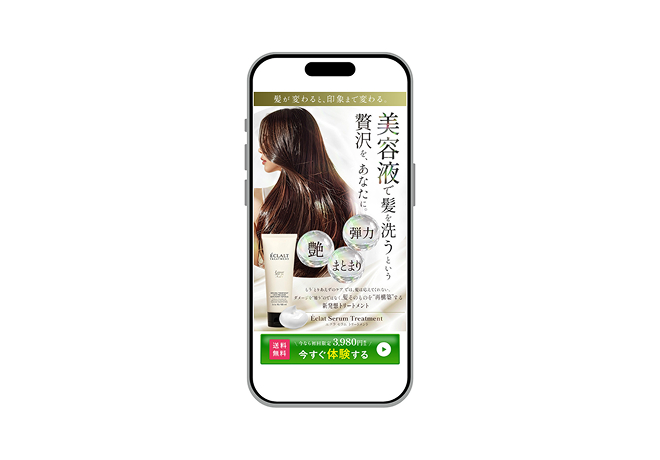
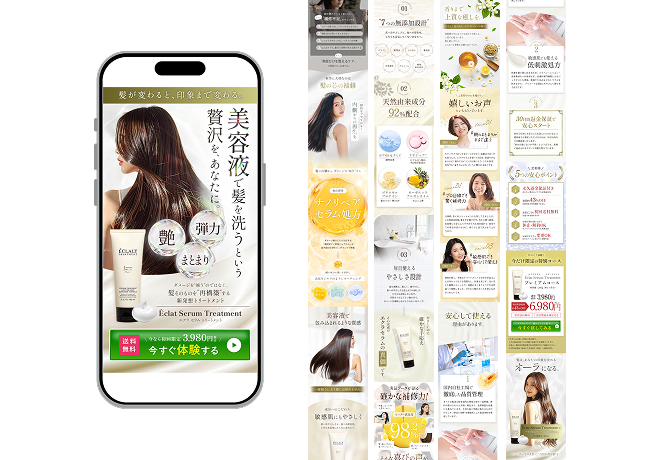
最新2026.01.18

diff --git a/works/works2-20.html b/works/works2-20.html
@@ -74,12 +74,16 @@
         <li data-filter="graphic"><a href="works1-1.html?cat=graphic" class="padding_box"><span>GRAPHIC</span></a></li>
     </ul>
     
-    <div class="lp_mockup_box">
-        <div class="lp_mockup_img"><img src="../Links/zisseki/hair-page.png" alt="ヘアトリートメントLPの画像"></div>
+    <div class="banner_mockup_box">
+        <div class="banner_mockup_img"><img src="../Links/zisseki/hair-page.png" alt="ヘアトリートメントのLPのモックアップ画像"></div>
+        <div class="banner_square_img"><img src="../Links/zisseki/hair-lp-syousai-kasou.png" alt="ヘアトリートメントの下層画像"></div>
     </div>
 
     <div class="lp_mockup_box_sp">
         <div class="lp_mockup_box_sp_img"><img src="../Links/zisseki/hair-page.png" alt="ヘアトリートメントLPの画像"></div>
+    </div>
+    <div class="banner_mockup_box_sp_2">
+        <div class="banner_mockup_box_sp_img"><img src="../Links/zisseki/hair-lp-syousai-kasou.png" alt="ヘアトリートメントの下層画像"></div>
     </div>
 
 

diff --git a/css/style.css b/css/style.css
@@ -924,11 +924,17 @@ a.contact_button:hover {
 .banner_mockup_box_sp{
     display: none;
 }
+.banner_mockup_box_sp_img2{
+    display: none;
+}
 .banner_mockup_img{
     width: 30%;
 }
 .banner_square_img{
     width: 60%;
+}
+.banner_mockup_box_sp_img{
+    display: none;
 }
 
 /* ワークスの詳細ページ グラフィック */
@@ -1420,6 +1426,16 @@ input[name=question] {
     width: 100%;
     display: block;
     justify-content: center;
+}
+.banner_mockup_box_sp_2{
+    width: 100%;
+    display: block;
+    justify-content: center;
+    margin-top: 40px;
+}
+.banner_mockup_box_sp_img{
+    display: block;
+}
 }
 
 .graphic_img_box{
